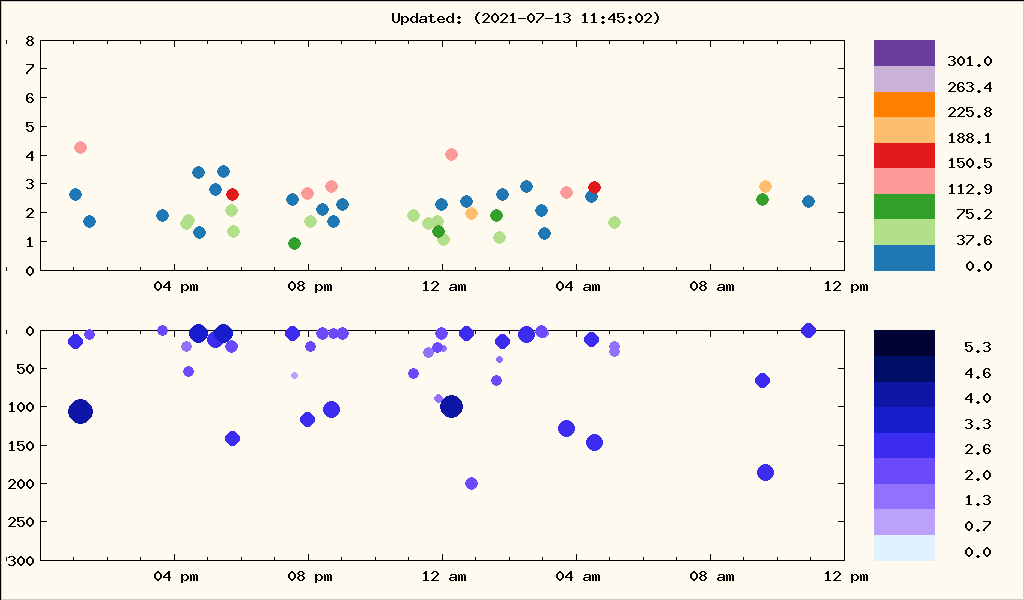
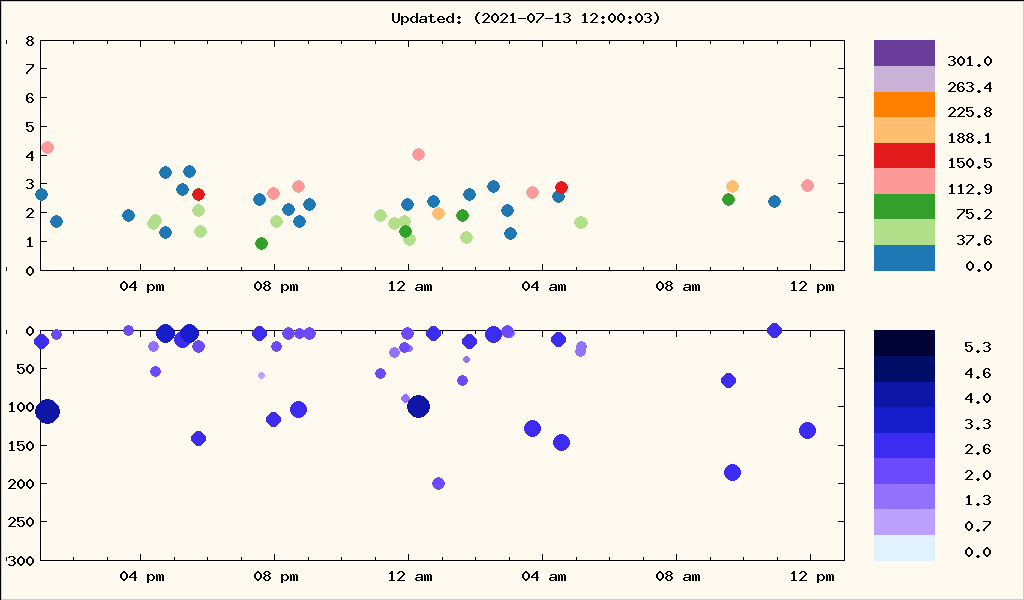
Snapshot

diff --git a/image.html b/image.html
@@ -38,9 +38,9 @@ td.border { border: 1px #330000 dashed; }
 <center>[ &lt;<a href="index.html" title="Main">Main</a>&gt; | &lt;<a href="image.html" title="Here">Re-load</a>&gt; ]</center>
 <dl><dt>All images on this page are in 2 parts:</dt> <dd>The upper part displays magnitude, coloured by depth.</dd> <dd>The lower part displays depth, coloured by magnitude.</dd></dl>
 <table summary="">
-<tr><td class="border"><table summary=""><tr><th align="left">Period</th> <td>:</td> <td>1 week</td></tr> <tr><td>Creation date</td> <td>:</td> <td>2021-07-13 11:45:04</td></tr></table> <a href="depth-magnitude-multiplot_week_0001.png" title="1 week" target="_blank"><img src="depth-magnitude-multiplot_week_0001.png" alt="1 week" title="1 week" /></a></td></tr>
-<tr><td class="border"><table summary=""><tr><th align="left">Period</th> <td>:</td> <td>2 weeks</td></tr> <tr><td>Creation date</td> <td>:</td> <td>2021-07-13 11:45:04</td></tr></table> <a href="depth-magnitude-multiplot_week_0002.png" title="2 weeks" target="_blank"><img src="depth-magnitude-multiplot_week_0002.png" alt="2 weeks" title="2 weeks" /></a></td></tr>
-<tr><td class="border"><table summary=""><tr><th align="left">Period</th> <td>:</td> <td>4 weeks</td></tr> <tr><td>Creation date</td> <td>:</td> <td>2021-07-13 11:45:04</td></tr></table> <a href="depth-magnitude-multiplot_week_0004.png" title="4 weeks" target="_blank"><img src="depth-magnitude-multiplot_week_0004.png" alt="4 weeks" title="4 weeks" /></a></td></tr>
+<tr><td class="border"><table summary=""><tr><th align="left">Period</th> <td>:</td> <td>1 week</td></tr> <tr><td>Creation date</td> <td>:</td> <td>2021-07-13 12:00:04</td></tr></table> <a href="depth-magnitude-multiplot_week_0001.png" title="1 week" target="_blank"><img src="depth-magnitude-multiplot_week_0001.png" alt="1 week" title="1 week" /></a></td></tr>
+<tr><td class="border"><table summary=""><tr><th align="left">Period</th> <td>:</td> <td>2 weeks</td></tr> <tr><td>Creation date</td> <td>:</td> <td>2021-07-13 12:00:04</td></tr></table> <a href="depth-magnitude-multiplot_week_0002.png" title="2 weeks" target="_blank"><img src="depth-magnitude-multiplot_week_0002.png" alt="2 weeks" title="2 weeks" /></a></td></tr>
+<tr><td class="border"><table summary=""><tr><th align="left">Period</th> <td>:</td> <td>4 weeks</td></tr> <tr><td>Creation date</td> <td>:</td> <td>2021-07-13 12:00:04</td></tr></table> <a href="depth-magnitude-multiplot_week_0004.png" title="4 weeks" target="_blank"><img src="depth-magnitude-multiplot_week_0004.png" alt="4 weeks" title="4 weeks" /></a></td></tr>
 </table>
 <center>[ &lt;<a href="index.html" title="Main">Main</a>&gt; | &lt;<a href="image.html" title="Here">Re-load</a>&gt; ]</center>
 <div class="ack">

diff --git a/index.html b/index.html
@@ -65,12 +65,20 @@ td.depth { text-align: right; }
 </tr>
 <tr>
 	 <td align="left">&nbsp;</td> 
-	 <td align="left">11:45:02 am</td> 
-	 <td align="right">48:59</td> 
+	 <td align="left">12:00:03 am</td> 
+	 <td align="right">4:44</td> 
 	 <td colspan="3">&nbsp;</td> 
 </tr>
 <tr>
 	 <td align="left">2021-07-13</td> 
+	 <td align="left">11:55:19 am</td> 
+	 <td align="right">59:16</td> 
+	 <td class="magnitude06">2.93</td> 
+	 <td class="depth">130.62</td> 
+	 <td align="right"><a href="http://www.geonet.org.nz/quakes/region/newzealand/2021p521612" title="2021p521612" target="_blank" class="publicid">45 km north of Whakatane</a></td> 
+</tr>
+<tr>
+	 <td align="left">&nbsp;</td> 
 	 <td align="left">10:56:03 am</td> 
 	 <td align="right">1:16:11</td> 
 	 <td class="magnitude05">2.37</td> 
